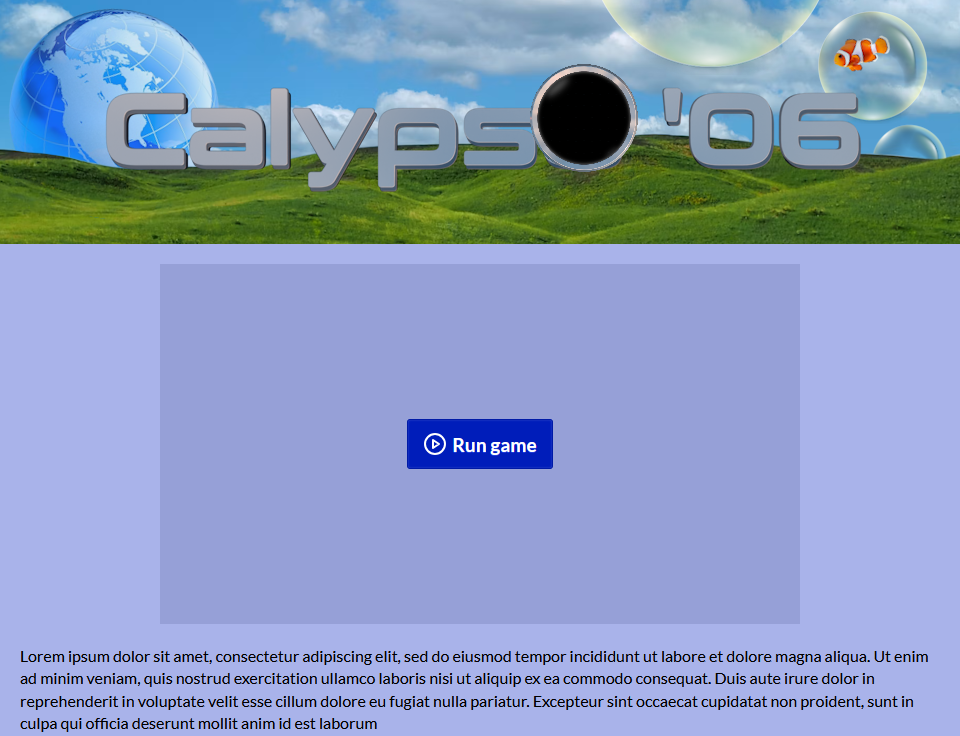
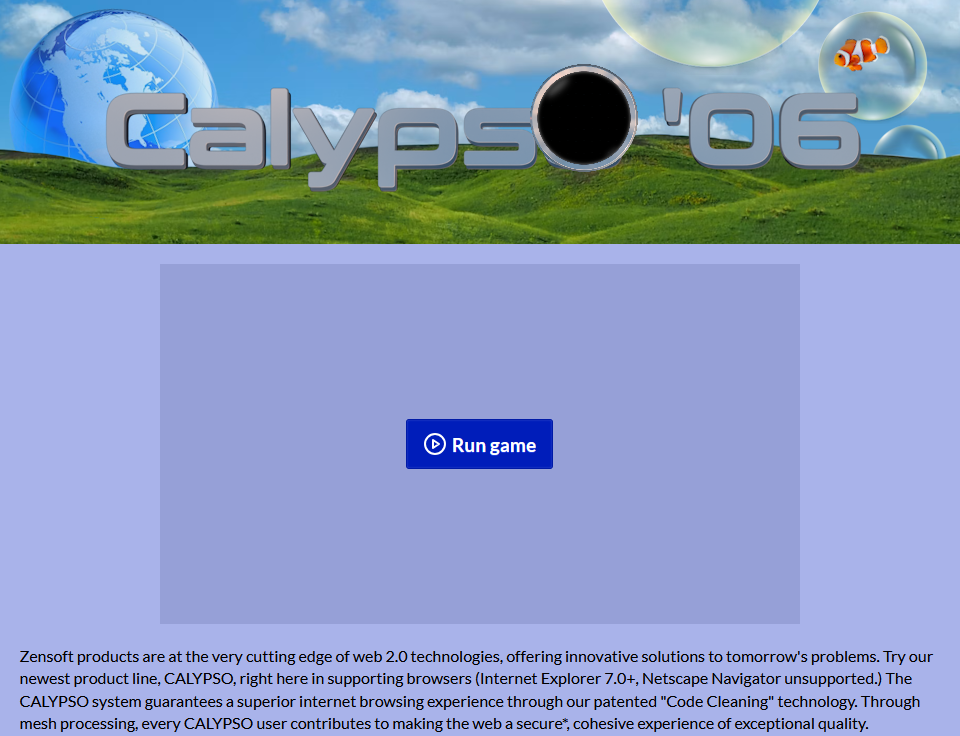
v2

Changed region(s): [[0.0, 0.875, 0.9688, 1.0], [0.4688, 0.5938, 0.5625, 0.625]]

diff --git a/GameLibrary/src/scenes/GameScene.cs b/GameLibrary/src/scenes/GameScene.cs
@@ -31,6 +31,8 @@ public class GameScene : Scene
     private float _lastClear;
     private List<ScoreAnim> _scoreAnims = new List<ScoreAnim>();
     private AnimCurve<float> _drainAnim = new AnimCurve<float>(1);
+    private bool _overflow;
+    private bool _endless;
 
     private State _state = State.Gaming;
     
@@ -40,8 +42,9 @@ public class GameScene : Scene
         Draining
     }
     
-    public GameScene()
+    public GameScene(bool endlessMode = false)
     {
+        _endless = endlessMode;
         B2WorldDef worldDef = b2DefaultWorldDef();
         
         worldDef.gravity = new B2Vec2(0.0f, 0.0f);
@@ -54,12 +57,18 @@ public class GameScene : Scene
         }
 
         _targetScore = Game.Level.TargetScore;
+        if (endlessMode)
+        {
+            _targetScore = int.MaxValue;
+        }
         
         Start();
     }
 
     public void Start()
     {
+        _overflow = false;
+        _state = State.Gaming;
         if (Mixer.IsPaused)
         {
             Mixer.Resume();
@@ -93,14 +102,14 @@ public class GameScene : Scene
             BackgroundDraw.ChargeMeter((float)_displayedScore / (float)_targetScore);
         }
         
-        if (Raylib.IsKeyDown(KeyboardKey.A)) Raylib.ClearBackground(new Color(32, 32, 32, 255));
+        // if (Raylib.IsKeyDown(KeyboardKey.A)) Raylib.ClearBackground(new Color(32, 32, 32, 255));
         
         BackgroundDraw.CirclePulse(Math.Max(0, Mixer.Beat() / 4 - 0.5f) % 1);
         BackgroundDraw.CirclePulse(Math.Max(0, Mixer.Beat() / 4 - 0.0f) % 1);
         BackgroundDraw.Waveform2();
 
         int ballFreq = _combo >= 2 && _balls.Count < 200 ? 5 : 10;
-        if (_state == State.Gaming && (Time.Frame % ballFreq == 0 || _balls.Count < 60 || Raylib.IsKeyDown(KeyboardKey.L)))
+        if (_state == State.Gaming && (Time.Frame % ballFreq == 0 || _balls.Count < 60))
         {
             Vector2 pos = Vector2.Normalize(Utils.InsideUnitCircle(Random.Shared)) * 32f + new Vector2(36, 36);
             MakeBall(pos, Ball.RandomDefaultType());
@@ -196,6 +205,7 @@ public class GameScene : Scene
             if (_balls.Count > 400)
             {
                 _score = 0;
+                _overflow = true;
                 Drain();
                 Game.ScrollText("Orb Overflow! Charge vented.");
             }
@@ -212,7 +222,14 @@ public class GameScene : Scene
         {
             if (_balls.Count == 0 && _drainAnim.IsComplete())
             {
-                Game.Level.TargetReachedAction.Invoke();
+                if (!_overflow)
+                {
+                    Game.Level.TargetReachedAction.Invoke();
+                }
+                else
+                {
+                    Start();
+                }
             }
 
             
@@ -254,8 +271,8 @@ public class GameScene : Scene
             ImGui.DrawTextRadial(0, 240, "..............................".Substring(comboPercentage));
         }
         
-        if (Raylib.IsKeyDown(KeyboardKey.V))
-            b2World_Draw(WorldId, _debugDraw);
+        // if (Raylib.IsKeyDown(KeyboardKey.V))
+        //     b2World_Draw(WorldId, _debugDraw);
     }
 
     private void HandleInput()
@@ -545,12 +562,43 @@ public class GameScene : Scene
             specular.DrawCentered(pos, size);
         }
 
+        public Color GetTint()
+        {
+            Color col = Color.Pink;
+            switch (BallType)
+            {
+                case Type.Red:
+                case Type.RedCrystal:
+                    col = Color.Red;
+                    break;
+                case Type.Blue:
+                case Type.BlueCrystal:
+                    col = Color.SkyBlue;
+                    break;
+                case Type.Yellow:
+                case Type.YellowCrystal:
+                    col = Color.Yellow;
+                    break;
+                case Type.Purple:
+                case Type.PurpleCrystal:
+                    col = Color.Purple;
+                    break;
+                case Type.Bomb:
+                    col = Color.DarkGray;
+                    break;
+                default:
+                    throw new ArgumentOutOfRangeException();
+            }
+
+            return col;
+        }
     }
     
     public class ScoreAnim
     {
         private string _text;
-        private AnimCurve<float> _anim;
+        private AnimCurve<float> _anim = AnimCurve.NewFloat(0, 1, 2);
+        private AnimCurve<float> _mergeAnim = AnimCurve.NewFloat(0, 1, 0.35f);
         private Vector2 _pos;
         private List<Ball> _balls;
 
@@ -559,12 +607,16 @@ public class GameScene : Scene
             _text = text;
             _pos = pos;
             _balls = balls;
-            _anim = AnimCurve.NewFloat(0, 1, 2);
         }
 
         public void Draw()
         {
             ImGui.DrawText(_text, _pos + new Vector2(0, -48) * _anim.Sample(), color: Raylib.ColorAlpha(Color.White, Easings.OutQuint(1 - _anim.Sample())));
+            if (_mergeAnim.IsComplete()) return;
+            foreach (Ball ball in _balls)
+            {
+                Resources.Sprites["radial"].DrawCentered(Vector2.Lerp(ball.Position * 10, _pos, _mergeAnim.Sample()), new Vector2(32, 32), tint: Raylib.ColorAlpha(ball.GetTint(), 1-_mergeAnim.Sample()));
+            }
         }
 
         public bool IsComplete() => _anim.IsComplete();

diff --git a/GameLibrary/src/scenes/IntroScene.cs b/GameLibrary/src/scenes/IntroScene.cs
@@ -9,7 +9,10 @@ public class IntroScene : Scene
     private List<AnimCurve<float>> _pulses = new List<AnimCurve<float>>();
     private AnimCurve<float> _nextPulse = new AnimCurve<float>(0);
     private AnimCurve<float> _pulseInterval;
-    private AnimCurve<float> _stepProgress;
+    private AnimCurve<float> _stepProgress = new AnimCurve<float>(1);
+    private bool _aPressed;
+    private bool _cPressed;
+    private bool _dPressed;
     
     public IntroScene()
     {
@@ -21,6 +24,16 @@ public class IntroScene : Scene
         DoPulses();
 
         bool cheat = Raylib.IsKeyPressed(KeyboardKey.G);
+
+        if (Raylib.IsKeyPressed(KeyboardKey.A)) _aPressed = true;
+        if (Raylib.IsKeyPressed(KeyboardKey.C)) _cPressed = true;
+        if (Raylib.IsKeyPressed(KeyboardKey.D)) _dPressed = true;
+
+        if (_aPressed && _cPressed && _dPressed && _step < 3)
+        {
+            Game.MoveDevice(new Vector2(360, 360), 1, 2, Easings.InOutSine);
+            _step = 3;
+        }
         
         Raylib.ClearBackground(_step >= 4 ? Game.ScreenBlack : Color.Black);
 
@@ -102,7 +115,14 @@ public class IntroScene : Scene
         {
             if (_stepProgress.IsComplete() || cheat)
             {
-                Game.ActiveScene = new MainMenu(true);
+                if (_aPressed && _dPressed && _cPressed)
+                {
+                    Game.ActiveScene = new GameScene(true);
+                }
+                else
+                {
+                    Game.ActiveScene = new MainMenu(true);
+                }
             }
         }
     }

diff --git a/GameLibrary/src/scenes/MainMenu.cs b/GameLibrary/src/scenes/MainMenu.cs
@@ -31,7 +31,7 @@ public class MainMenu : Scene
         // if (Raylib.IsKeyPressed(KeyboardKey.Four )) Game.MoveDevice(new Vector2(180, 540), 0.5f,  1);
         // if (Raylib.IsKeyPressed(KeyboardKey.Five )) Game.MoveDevice(new Vector2(240, 480), 0.66f,  1);
         // if (Raylib.IsKeyPressed(KeyboardKey.G    )) Game.ActiveScene = new GameScene();
-        if (Raylib.IsKeyPressed(KeyboardKey.H    )) Game.Level.TargetReachedAction.Invoke();
+        // if (Raylib.IsKeyPressed(KeyboardKey.H    )) Game.Level.TargetReachedAction.Invoke();
         // if (Raylib.IsKeyPressed(KeyboardKey.K    )) Game.OpenPortal();
         // if (Raylib.IsKeyPressed(KeyboardKey.L    )) Game.ClosePortal();
 
@@ -49,17 +49,17 @@ public class MainMenu : Scene
         
         Resources.Sprites["cd"].DrawCentered(360, 360, Resources.Sprites["cd"].Size/2, rotation: Time.Scaled * 60);
         
-        if (Game.DebugMode && Mixer.MusicPlaying != null)
-        {
-            if (Mixer.IsBeatThisFrame())
-            {
-                Resources.Sounds["metronome"].Play(volume:0.5f);
-            }
-
-            if (Raylib.IsKeyPressed(KeyboardKey.Equal)) Mixer.MusicPlaying.FirstBeat += 0.01f;
-            if (Raylib.IsKeyPressed(KeyboardKey.Minus)) Mixer.MusicPlaying.FirstBeat -= 0.01f;
-            if (Raylib.IsKeyPressed(KeyboardKey.Enter)) Game.ScrollText(Mixer.MusicPlaying.Title + " " + Mixer.MusicPlaying.FirstBeat.ToString("N3"));
-        }
+        // if (Game.DebugMode && Mixer.MusicPlaying != null)
+        // {
+        //     if (Mixer.IsBeatThisFrame())
+        //     {
+        //         Resources.Sounds["metronome"].Play(volume:0.5f);
+        //     }
+        //
+        //     if (Raylib.IsKeyPressed(KeyboardKey.Equal)) Mixer.MusicPlaying.FirstBeat += 0.01f;
+        //     if (Raylib.IsKeyPressed(KeyboardKey.Minus)) Mixer.MusicPlaying.FirstBeat -= 0.01f;
+        //     if (Raylib.IsKeyPressed(KeyboardKey.Enter)) Game.ScrollText(Mixer.MusicPlaying.Title + " " + Mixer.MusicPlaying.FirstBeat.ToString("N3"));
+        // }
 
         DrawRadialMenu();
 

diff --git a/GameLibrary/src/Game.cs b/GameLibrary/src/Game.cs
@@ -76,7 +76,7 @@ public static class Game
     {
         Time.UpdateTime();
         
-        if (Raylib.IsKeyPressed(KeyboardKey.F3)) DebugMode = !DebugMode;
+        // if (Raylib.IsKeyPressed(KeyboardKey.F3)) DebugMode = !DebugMode;
         
         HoverInteractable = false;
         // if (!Raylib.CheckCollisionPointCircle(Raylib.GetMousePosition(), new Vector2(360, 360), 360))

diff --git a/GameLibrary/src/Mixer.cs b/GameLibrary/src/Mixer.cs
@@ -73,6 +73,8 @@ public static class Mixer
     
     public static void PlayMusic(MusicAsset music)
     {
+        IsPaused = false;
+        AutoPlay = true;
         _musicFade = AnimCurve.NewFloat(0, FullVolume, 1);
         MusicPlaying?.Stop();
         MusicPlaying = music;

diff --git a/GameLibrary/src/LaserFakeoutScene.cs b/GameLibrary/src/LaserFakeoutScene.cs
@@ -133,6 +133,7 @@ public class LaserFakeoutScene : Scene
             Resources.Sprites["mask"].DrawCentered(360, 360, Vector2.One * 200 * (1 - _stepProgress.Sample()), tint: Color.Black );
             if (_stepProgress.IsComplete())
             {
+                Mixer.PlayNextMusic();
                 Game.MoveDevice(new Vector2(360, 360), 1, 1);
                 Game.LevelIndex++;
                 Game.ActiveScene = new MainMenu(false);

diff --git a/GameLibrary/src/LaserScene.cs b/GameLibrary/src/LaserScene.cs
@@ -100,6 +100,7 @@ public class LaserScene : Scene
             Resources.Sprites["mask"].DrawCentered(360, 360, Vector2.One * 200 * (1 - _stepProgress.Sample()), tint: Color.Black );
             if (_stepProgress.IsComplete())
             {
+                Mixer.PlayNextMusic();
                 Game.MoveDevice(new Vector2(360, 360), 1, 1);
                 Game.LevelIndex++;
                 Game.ActiveScene = new MainMenu(false);

diff --git a/GameLibrary/src/MusicAsset.cs b/GameLibrary/src/MusicAsset.cs
@@ -15,6 +15,7 @@ public class MusicAsset
     public MusicAsset(Music music, string title, string artistName, float beatsPerMinute, float firstBeat)
     {
         Music = music;
+        Music.Looping = false;
         Title = title;
         ArtistName = artistName;
         BeatsPerMinute = beatsPerMinute;

diff --git a/notes.md b/notes.md
@@ -3,16 +3,13 @@ Raylib Jam
 a9b3ea
 
 Stack:
- - Final script
- - Portal effect
- - Radial menu
+ - Update page text
+ - Implement the promised endless mode
+ - Menu to minigame transition
  - Cleanup, sensible scene system and device/scene distinction. (Gamescene vs Devicescene?)
- - Intro 'cutscene'
- - Storyline integration
  - Implement charge sound
  - alert sirens
  - Ball merge animation
- - Overfill animation
  - Flipover animation
 
 Requirements:
@@ -41,6 +38,8 @@ Monster Ideas:
  - INSANO from NFM
  - 
 
+ Zensoft products are at the very cutting edge of web 2.0 technologies, offering innovative solutions to tomorrow's problems. Try our newest product line, CALYPSO, right here in supporting browsers (Internet Explorer 7.0+, Netscape Navigator unsupported.) The CALYPSO system guarantees a superior internet browsing experience through our patented "Code Cleaning" technology. Through mesh processing, every CALYPSO user contributes to making the web a secure*, cohesive experience of exceptional quality. 
+
 Websites:
 With permission:
 https://leafyyy.neocities.org/
@@ -50,14 +49,10 @@ https://geocities.restorativland.org/Heartland/Grove/1137/
  - Horse
 https://geocities.restorativland.org/Heartland/Ranch/1782/
  - Chuck's Medival Madness
-https://geocities.restorativland.org/Heartland/Ranch/1026/
- - Hammyland!
-https://geocities.restorativland.org/Heartland/Ranch/1796/
- - Wiener Dogs
-https://geocities.restorativland.org/SunsetStrip/1131/
- - The purple experience, Prince fanpage
-https://geocities.restorativland.org/Area51/4644/
- - PUNK'S
+https://geocities.restorativland.org/Area51/Dreamworld/3498/
+ - It's MANGA
+https://geocities.restorativland.org/Area51/Dreamworld/2274/
+ - Groovy Galaxy
 
 Plot: 
  - The device is for deleting conflicting aesthetics from the internet, to prepare it for Y2K